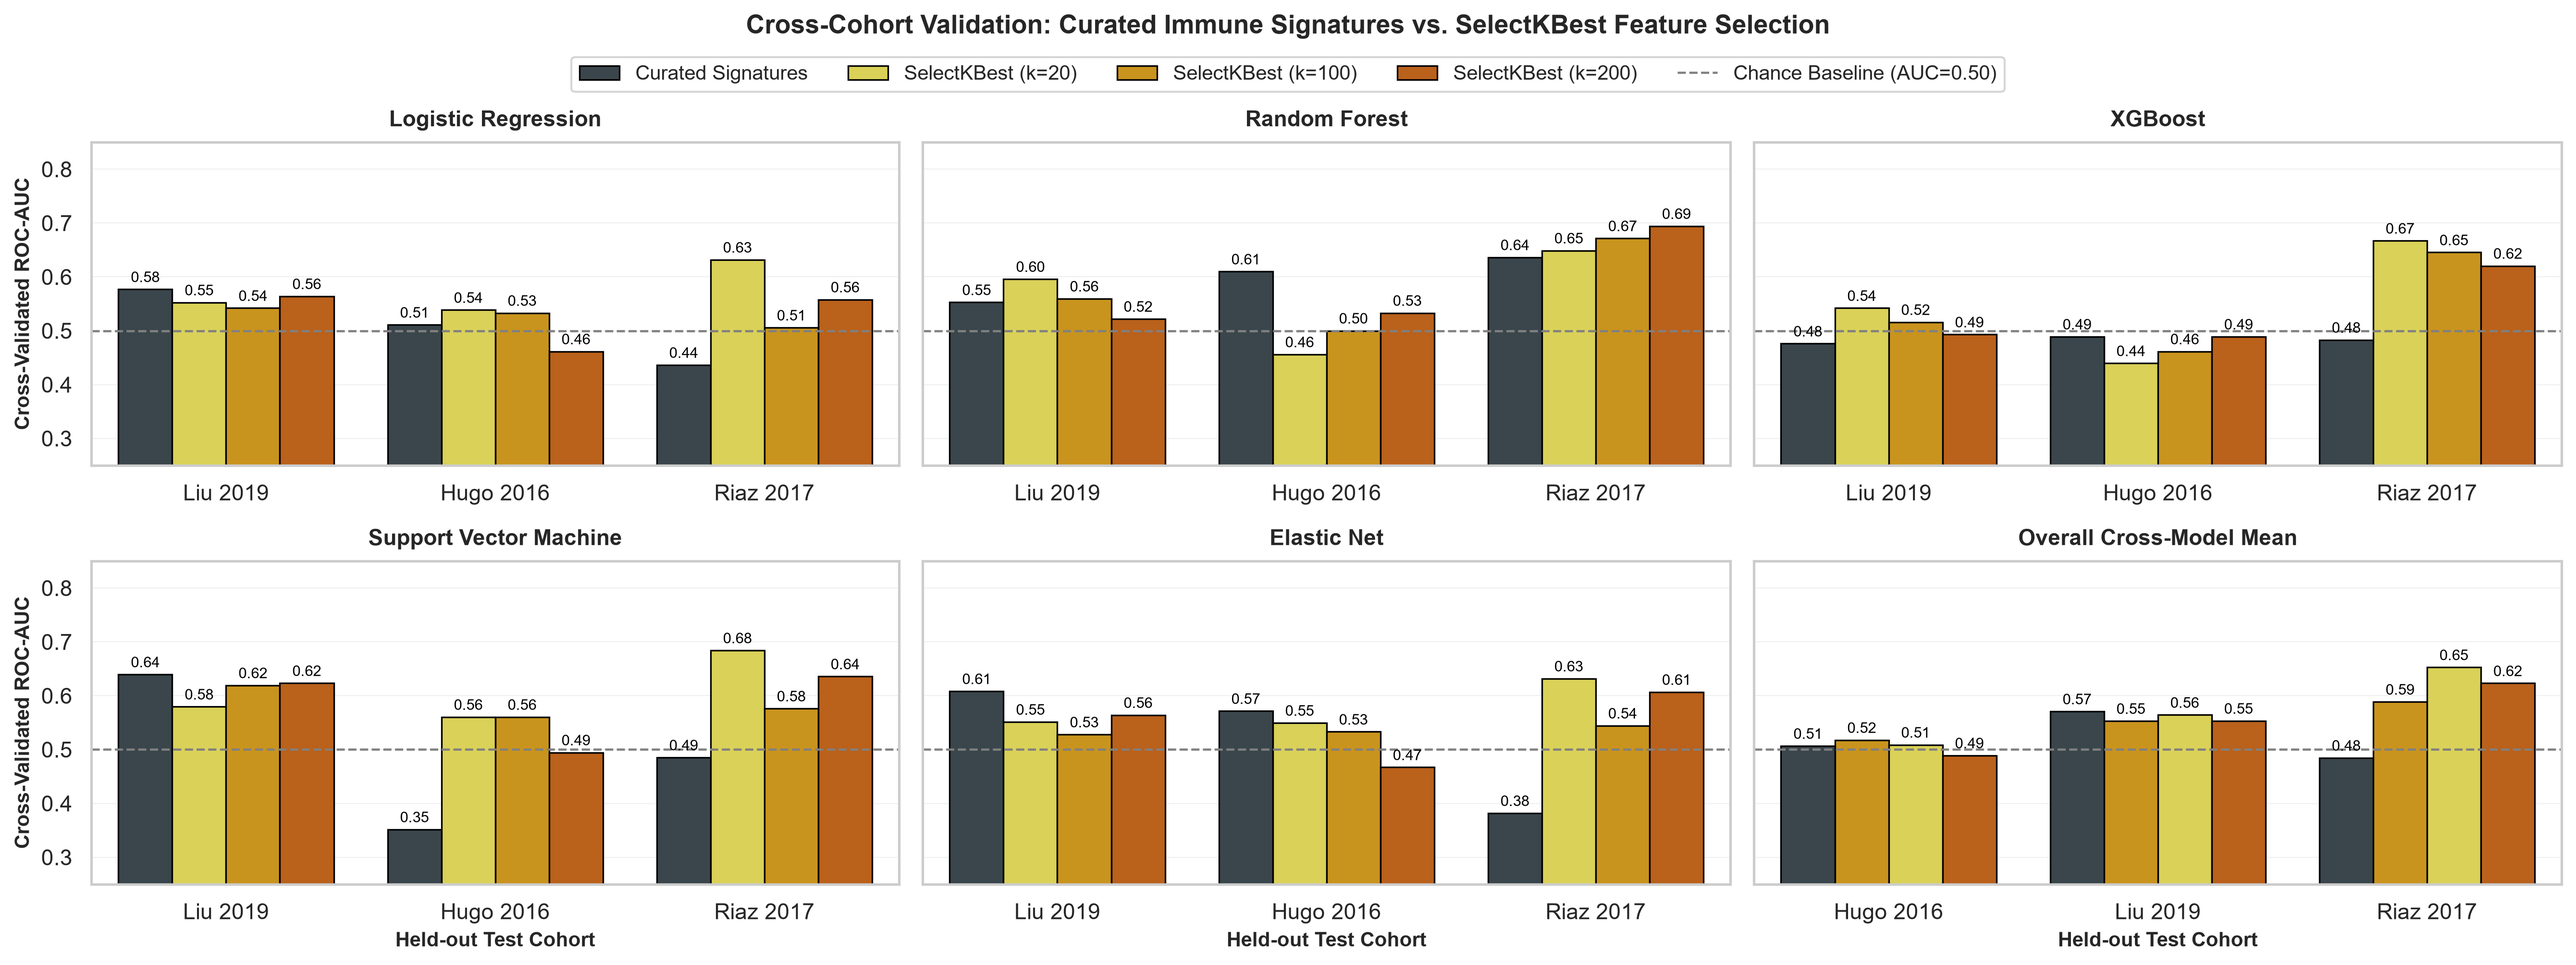
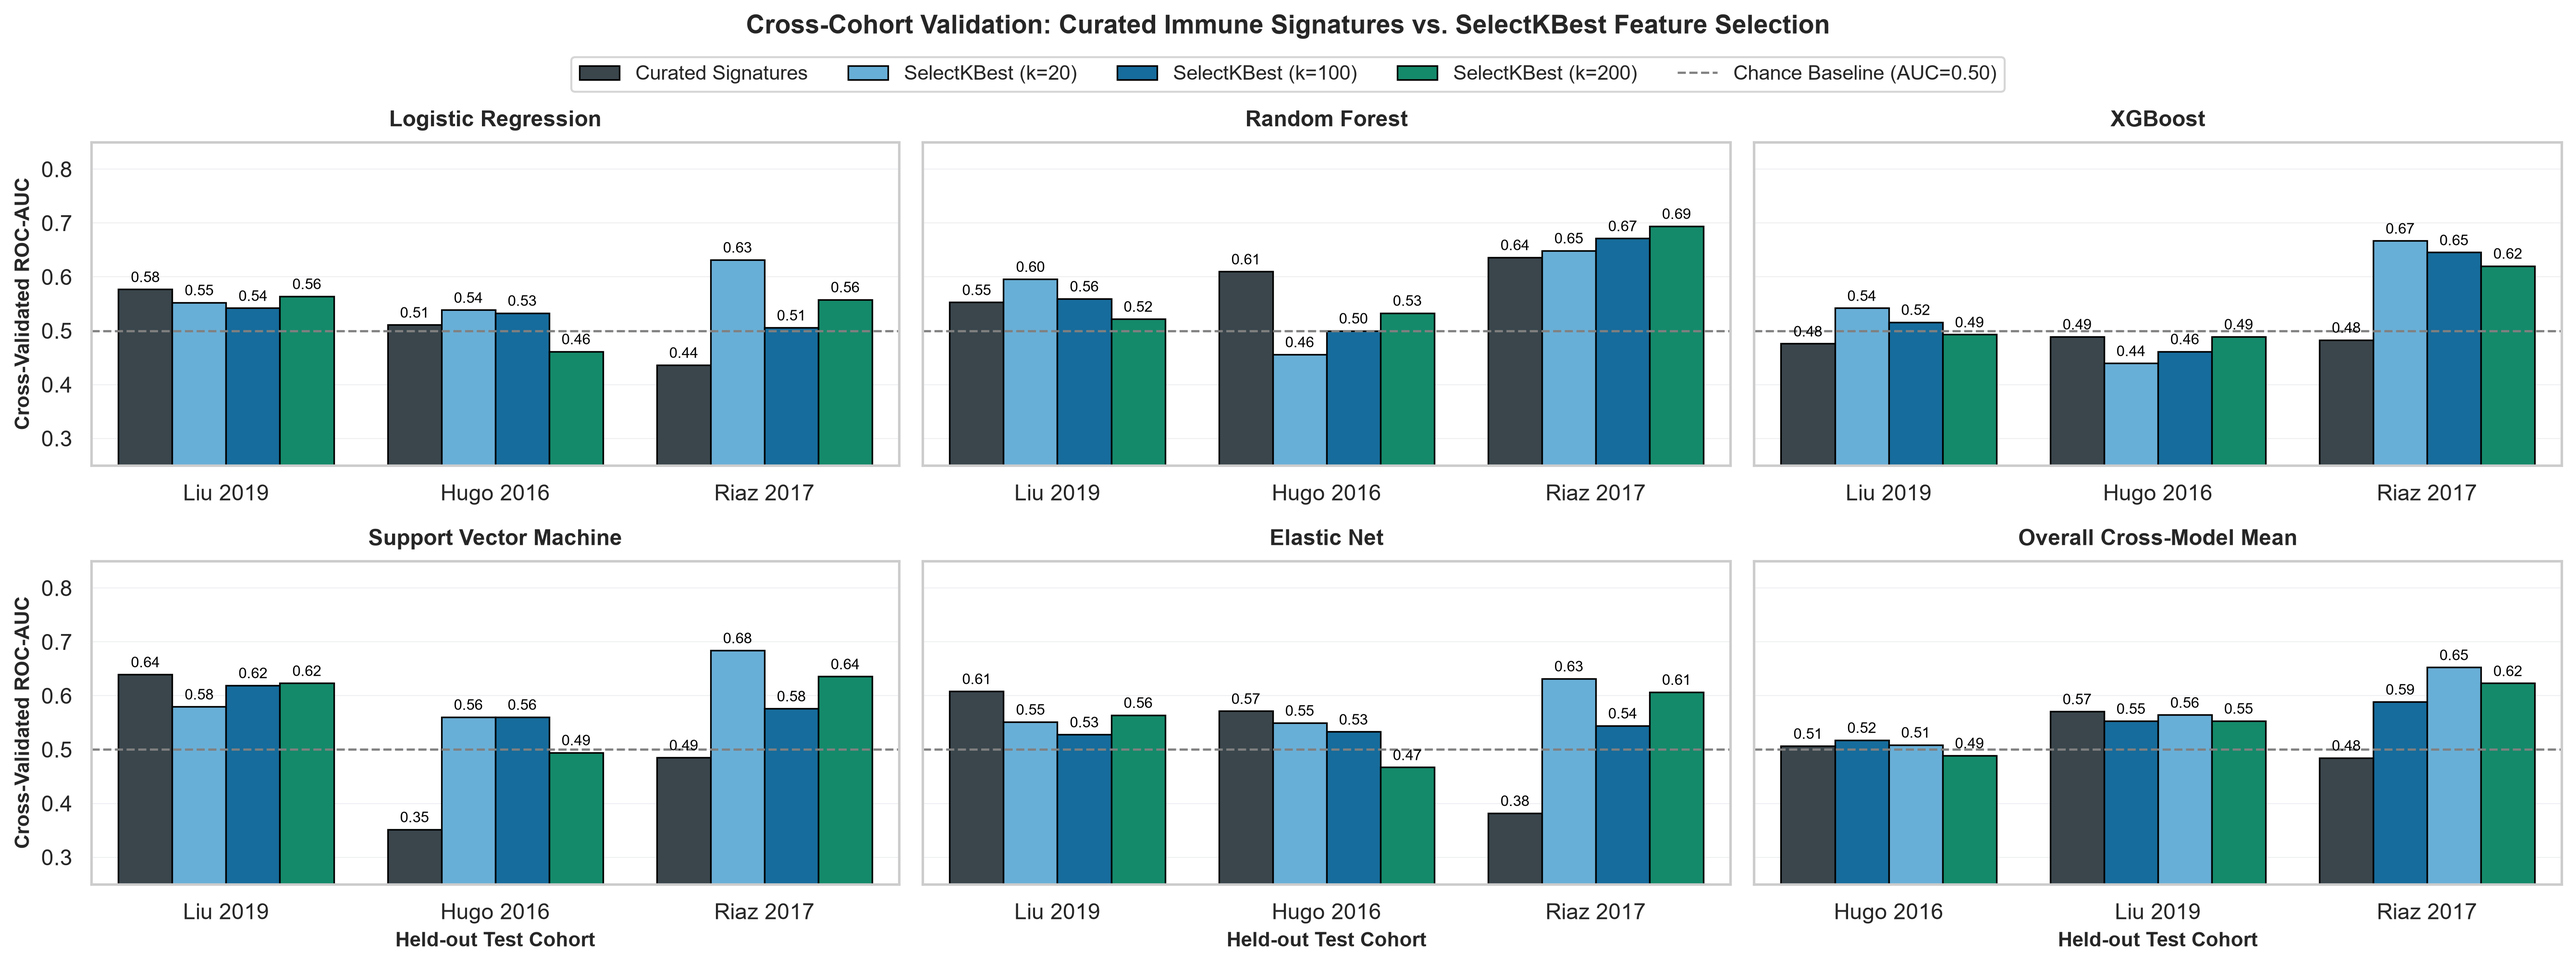
style(plots): update feature selection palette to Sky Blue (#56B4E9), Blue (#0072B2), and Bluish Green (#009E73)

diff --git a/src/styles.py b/src/styles.py
@@ -112,9 +112,9 @@ MODEL_TYPE_PALETTE = {
 # Feature Selection Method Encoding (AUC comparison plots)
 FEATURE_SELECTION_PALETTE = {
     "Curated Signatures":  "#37474F",  # Dark Slate Charcoal
-    "SelectKBest (k=20)":  "#F0E442",  # Okabe-Ito Yellow
-    "SelectKBest (k=100)": "#E69F00",  # Okabe-Ito Orange
-    "SelectKBest (k=200)": "#D55E00",  # Okabe-Ito Vermillion
+    "SelectKBest (k=20)":  "#56B4E9",  # Okabe-Ito Sky Blue
+    "SelectKBest (k=100)": "#0072B2",  # Okabe-Ito Blue
+    "SelectKBest (k=200)": "#009E73",  # Okabe-Ito Bluish Green
 }
 
 # Threshold Optimisation Strategy Encoding (default vs Youden's J cutoff comparison)
